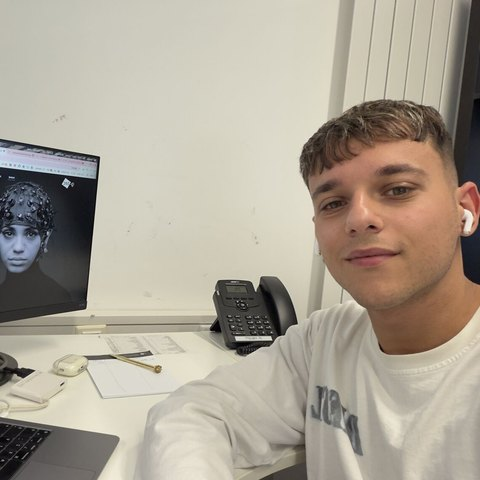
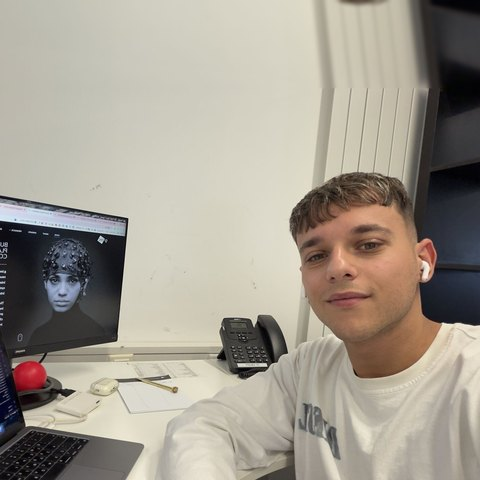
Wider photo, master's thesis, grade on its own line

diff --git a/index.html b/index.html
@@ -5,7 +5,7 @@
 <meta name="viewport" content="width=device-width, initial-scale=1">
 <title>Panagiotis Leventogiannis</title>
 <link rel="icon" href="favicon.svg" type="image/svg+xml">
-<meta name="description" content="Electrical & computer engineer working on brain–computer interfaces, research trainee at g.tec medical engineering. Diploma thesis, projects and experience.">
+<meta name="description" content="Electrical & computer engineer working on brain–computer interfaces, research trainee at g.tec medical engineering. Master&#8217;s thesis, projects and experience.">
 <link rel="preconnect" href="https://fonts.googleapis.com">
 <link rel="preconnect" href="https://fonts.gstatic.com" crossorigin>
 <link rel="stylesheet" href="https://fonts.googleapis.com/css2?family=Literata:opsz,wght@7..72,400;7..72,500;7..72,600&family=IBM+Plex+Sans:wght@400;500;600&family=JetBrains+Mono:wght@400;500&display=swap">
@@ -124,6 +124,7 @@ h2{font-family:var(--f-ui); font-size:11.5px; font-weight:600; letter-spacing:.1
   border-radius:4px; padding:22px 24px; display:flex; flex-direction:column; gap:10px}
 .thesis .tag{font-family:var(--f-mono); font-size:10.5px; letter-spacing:.1em;
   text-transform:uppercase; color:var(--ink-3)}
+.thesis .grade{color:var(--accent); font-weight:500; margin-top:-6px}
 .thesis h3{font-size:21px; letter-spacing:-.012em; line-height:1.28}
 .thesis p{font-family:var(--f-ui); font-size:15px; line-height:1.58; color:var(--ink-2)}
 .figures{display:flex; flex-wrap:wrap; gap:0 26px; margin-top:2px}
@@ -177,15 +178,16 @@ footer{border-top:1px solid var(--rule); padding-block:30px 56px; margin-top:24p
 <section>
   <h2 data-el="Σχετικά με εμένα">About me</h2>
   <div class="stack s-16">
-    <p class="lede" data-el="Ολοκλήρωσα τη διπλωματική μου στις διεπαφές εγκεφάλου&#8211;υπολογιστή υπό την επίβλεψη του Αναπληρωτή Καθηγητή Αθανάσιου Κούτρα, με βαθμό 10. Σήμερα είμαι ερευνητής ασκούμενος στην Ομάδα Επεξεργασίας Σήματος της g.tec medical engineering στην Αυστρία. Με ενδιαφέρουν οι μη επεμβατικές διεπαφές εγκεφάλου&#8211;υπολογιστή, με έμφαση σε αποκωδικοποιητές ΗΕΓ που γενικεύουν αξιόπιστα και στην αυστηρή αξιολόγησή τους.">I completed my diploma thesis on brain&#8211;computer interfaces under Associate Professor Athanasios Koutras, graded 10/10. I am now a research trainee in the Signal Processing Group at g.tec medical engineering in Austria. My interest is in non-invasive BCIs, with a focus on EEG decoders that generalise reliably and on evaluating them rigorously.</p>
+    <p class="lede" data-el="Ολοκλήρωσα τη διπλωματική μου στις διεπαφές εγκεφάλου&#8211;υπολογιστή υπό την επίβλεψη του Αναπληρωτή Καθηγητή Αθανάσιου Κούτρα, με βαθμό 10. Σήμερα είμαι ερευνητής ασκούμενος στην Ομάδα Επεξεργασίας Σήματος της g.tec medical engineering στην Αυστρία. Με ενδιαφέρουν οι μη επεμβατικές διεπαφές εγκεφάλου&#8211;υπολογιστή, με έμφαση σε αποκωδικοποιητές ΗΕΓ που γενικεύουν αξιόπιστα και στην αυστηρή αξιολόγησή τους.">I completed my master&#8217;s thesis on brain&#8211;computer interfaces under Associate Professor Athanasios Koutras, graded 10/10. I am now a research trainee in the Signal Processing Group at g.tec medical engineering in Austria. My interest is in non-invasive BCIs, with a focus on EEG decoders that generalise reliably and on evaluating them rigorously.</p>
     <p class="seek" data-el="Αναζητώ ερευνητική θέση που οδηγεί σε διδακτορικό στη νευρομηχανική, στις διεπαφές εγκεφάλου&#8211;υπολογιστή ή στη νευροαποκατάσταση.">Looking for a research position leading to a PhD in neural engineering, brain&#8211;computer interfaces or neurorehabilitation.</p>
   </div>
 </section>
 
 <section>
-  <h2 data-el="Διπλωματική εργασία">Diploma thesis</h2>
+  <h2 data-el="Διπλωματική εργασία">Master&#8217;s thesis</h2>
   <div class="thesis">
-    <div class="tag" data-el="Πανεπιστήμιο Πελοποννήσου · Επιβλέπων: Αθανάσιος Κούτρας, Αναπληρωτής Καθηγητής · Βαθμός 10">University of the Peloponnese · Supervisor: Athanasios Koutras, Associate Professor · Graded 10/10</div>
+    <div class="tag" data-el="Πανεπιστήμιο Πελοποννήσου · Επιβλέπων: Αθανάσιος Κούτρας, Αναπληρωτής Καθηγητής">University of the Peloponnese · Supervisor: Athanasios Koutras, Associate Professor</div>
+    <div class="tag grade" data-el="Βαθμός 10/10">Graded 10/10</div>
     <h3 data-el="Έλεγχος Ρομποτικού Βραχίονα μέσω Brain&#8211;Computer Interface με χρήση EEG και Νοερών Κινήσεων">Robotic Arm Control through a Brain&#8211;Computer Interface Using EEG Motor Imagery</h3>
     <p data-el="Μια διεπαφή εγκεφάλου&#8211;υπολογιστή που μετατρέπει τη νοερή κίνηση σε εντολές για ρομποτικό χέρι: οκτώ κανάλια ΗΕΓ, κοινά χωρικά πρότυπα με γραμμικό ταξινομητή, και ένα Arduino που οδηγεί τους πέντε σερβοκινητήρες ενός InMoov i2 που τύπωσα και συναρμολόγησα. Η αξιολόγηση κρατά ολόκληρο run εκτός εκπαίδευσης, που είναι το σχήμα που αντιστοιχεί στην πραγματική χρήση.">A brain&#8211;computer interface that turns motor imagery into commands for a robotic hand: eight EEG channels, common spatial patterns with a linear classifier, and an Arduino driving the five servos of an InMoov i2 that I printed and assembled. Evaluation holds a whole run out of training, which is the scheme that matches real use.</p>
     <div class="figures">
